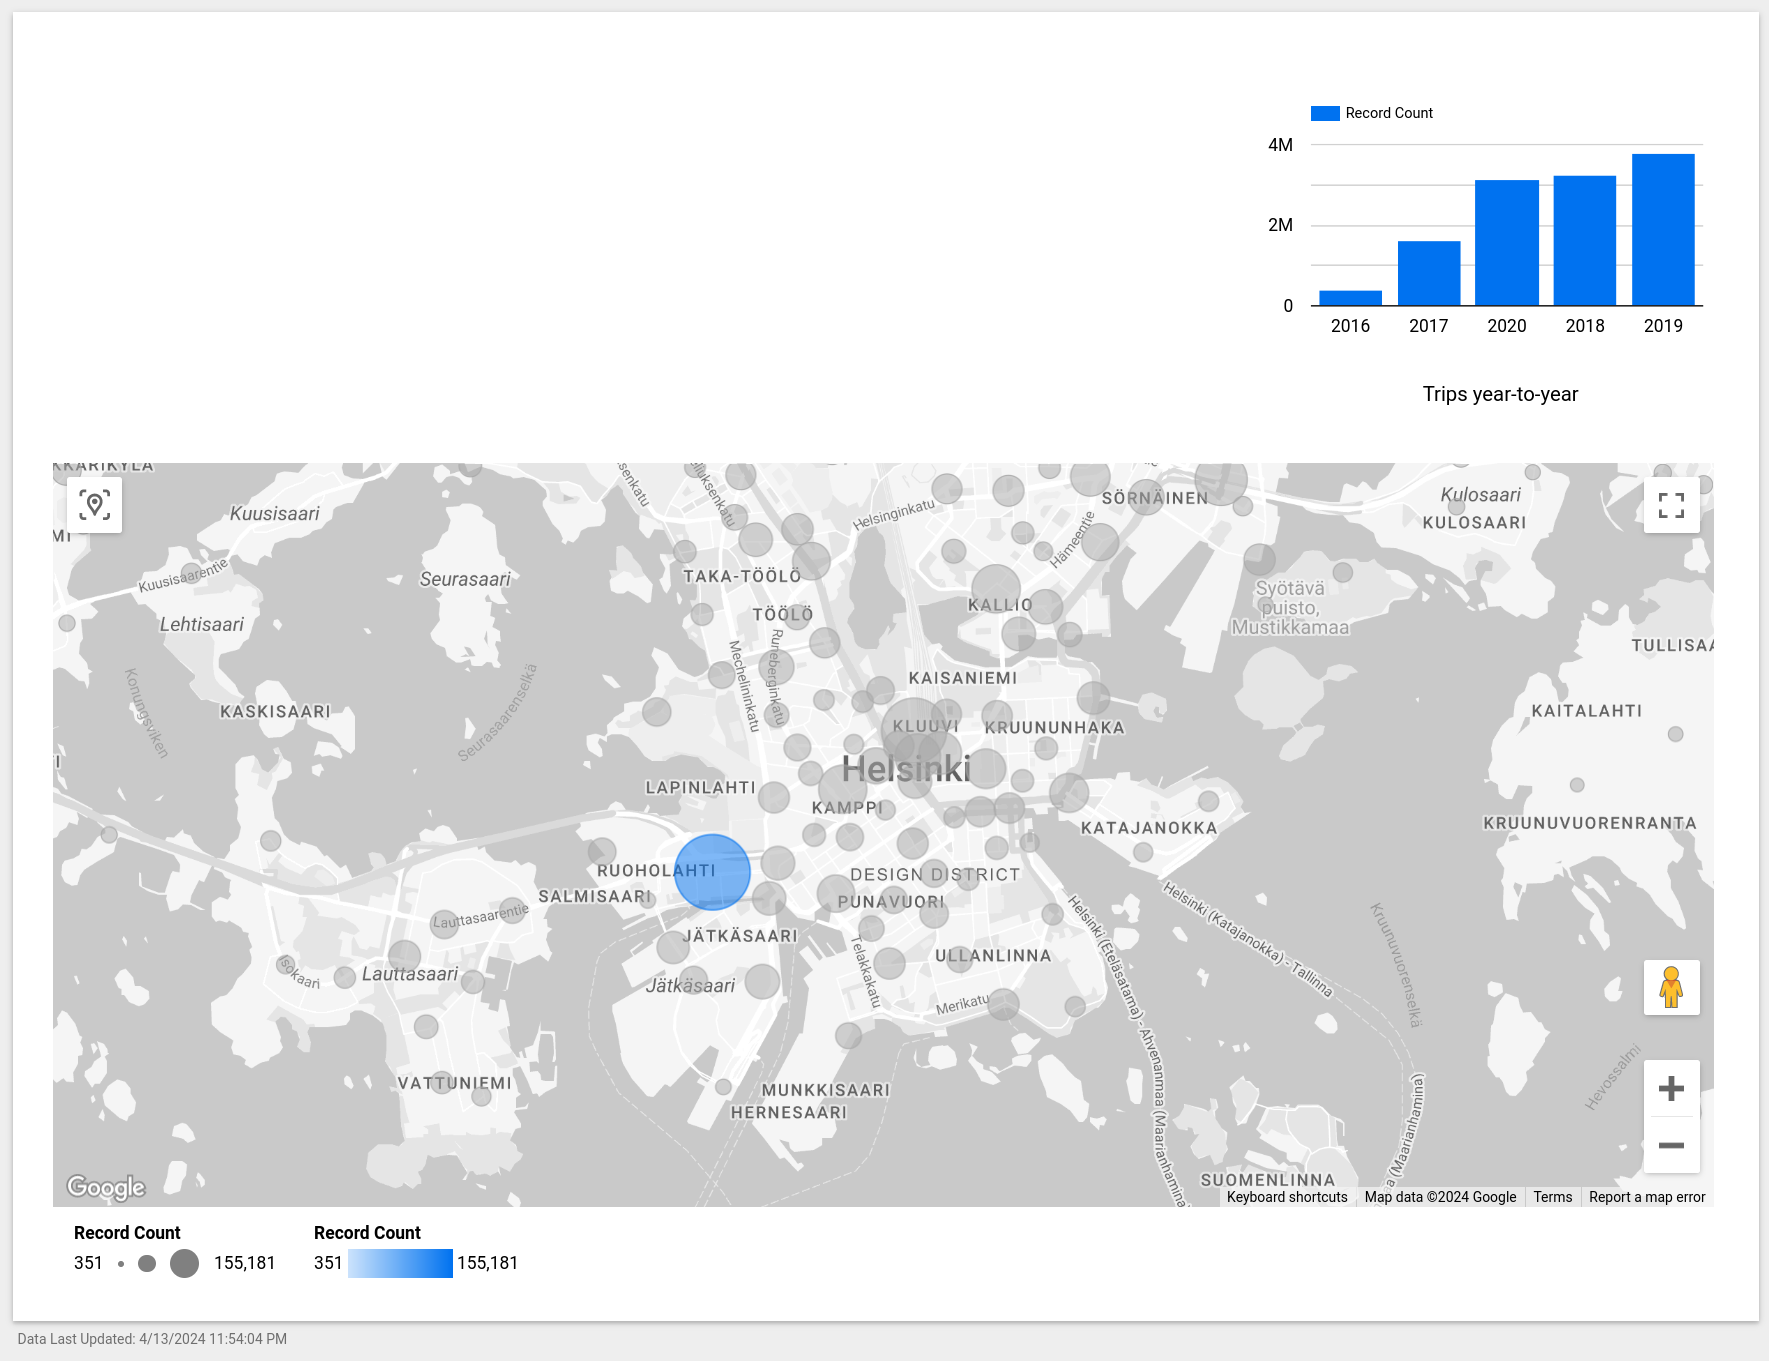
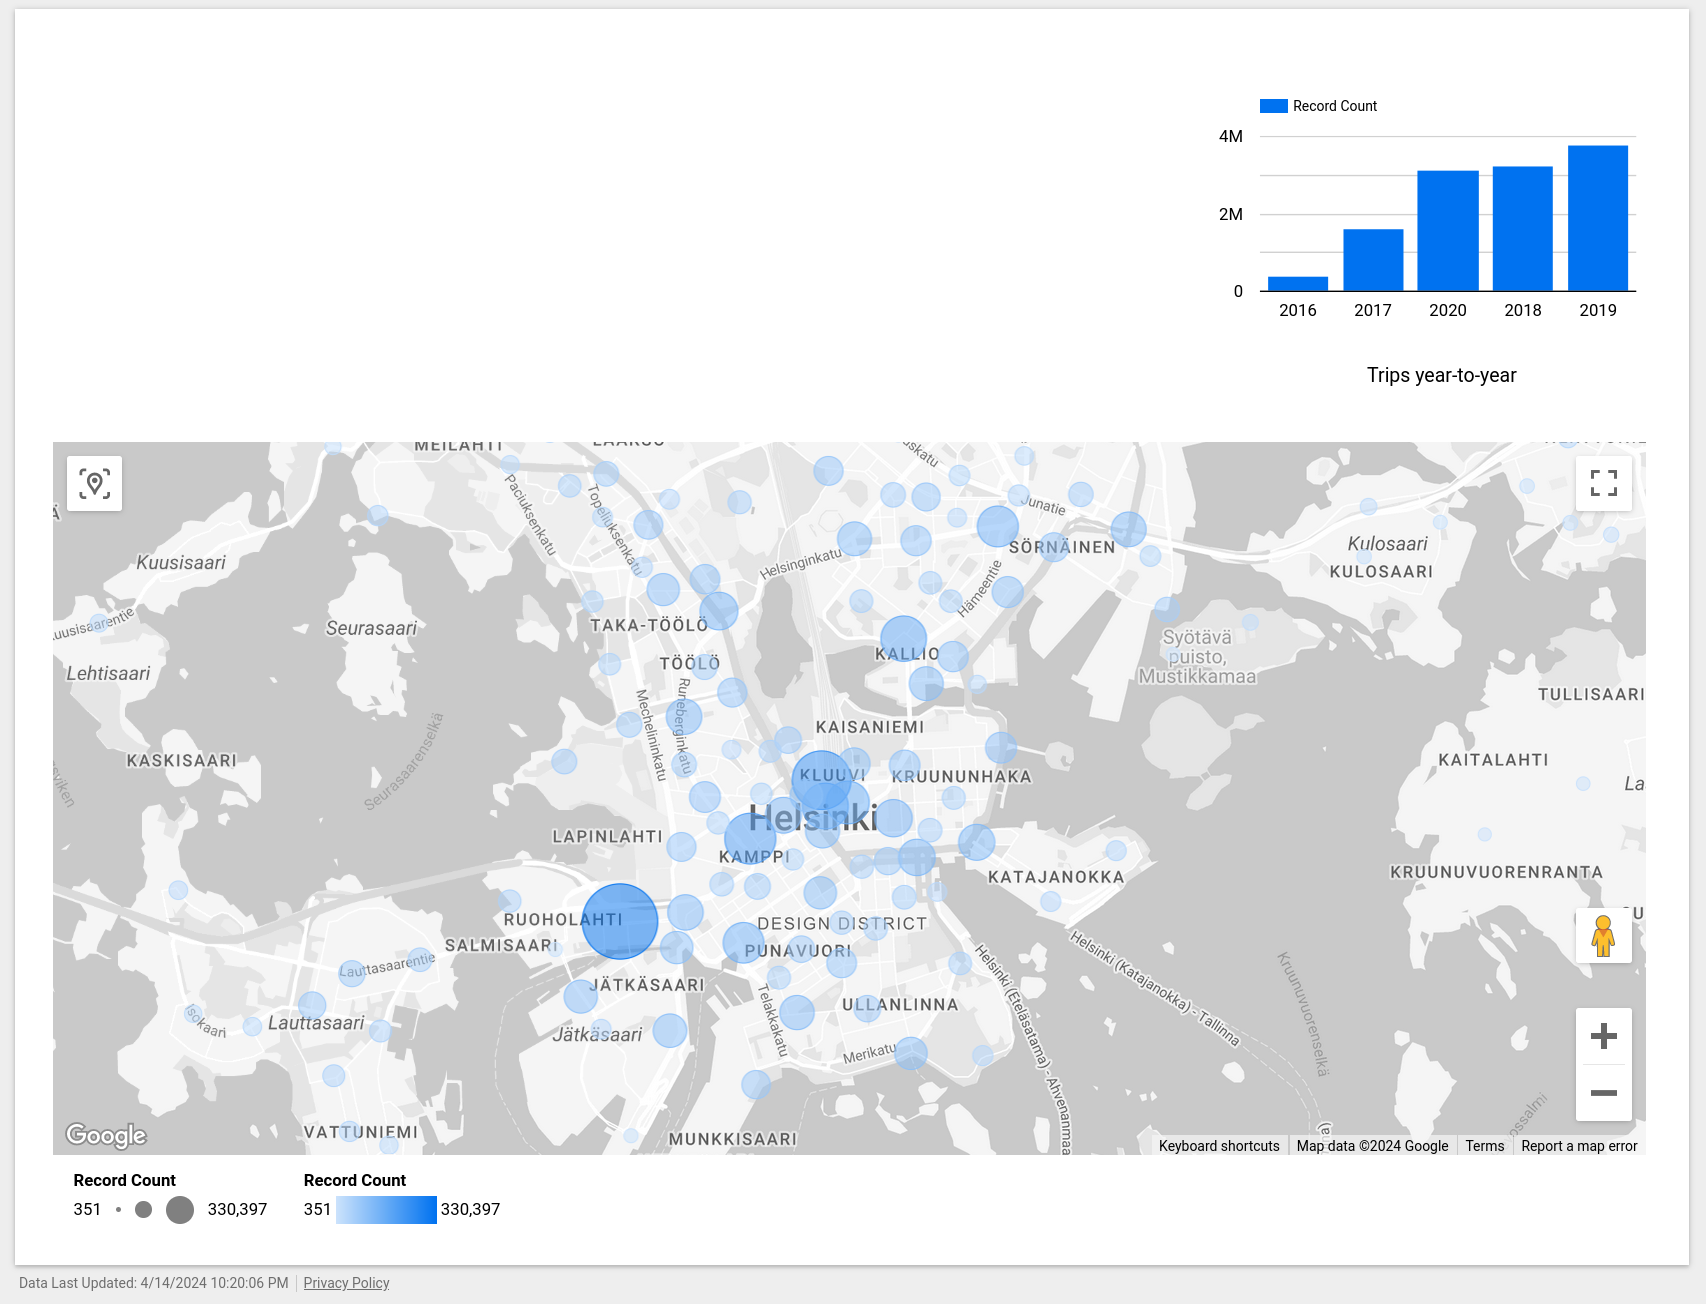
initial working pipeline
- better datacleaning
- export the notebook to python script
- add new roles to the service-account to be able to create bigquery tables

diff --git a/process_bikes-trips.py b/process_bikes-trips.py
@@ -1,0 +1,124 @@
+#!/usr/bin/env python
+# coding: utf-8
+
+# In[1]:
+
+
+from pyspark.sql import SparkSession
+import pandas as pd
+from pyspark.sql import types
+from pyspark.sql.functions import year
+from google.cloud import bigquery
+
+# BigQuery client setup
+client = bigquery.Client()
+current_project_id = client.project
+
+# Initialize a SparkSession
+spark = SparkSession.builder\
+                .config('spark.jars', 'gs://spark-lib/bigquery/spark-bigquery-with-dependencies_2.12-0.30.0.jar')\
+                .getOrCreate()
+
+# Read the CSV file into a DataFrame
+schema = types.StructType([
+    types.StructField("departure", types.TimestampType(), True),
+    types.StructField("return", types.TimestampType(), True),
+    types.StructField("departure_id", types.IntegerType(), True),
+    types.StructField("departure_name", types.StringType(), True),
+    types.StructField("return_id", types.IntegerType(), True),
+    types.StructField("return_name", types.StringType(), True),
+    types.StructField("distance (m)", types.DoubleType(), True),
+    types.StructField("duration (sec.)", types.DoubleType(), True),
+    types.StructField("avg_speed (km/h)", types.DoubleType(), True),
+    types.StructField("departure_latitude", types.DoubleType(), True),
+    types.StructField("departure_longitude", types.DoubleType(), True),
+    types.StructField("return_latitude", types.DoubleType(), True),
+    types.StructField("return_longitude", types.DoubleType(), True),
+    types.StructField("Air temperature (degC)", types.DoubleType(), True)
+    ])
+    
+raw = spark.read     .format("csv")     .option("compression", "gzip")     .option("header", True)     .option("inferSchema", True)    .schema(schema)    .load("gs://pfcllotsb7jsqqvbjrnw3s-datasets/bike-rides-data.tar.gz")
+
+
+# In[2]:
+
+
+# clean up column names, partition by year
+raw = raw.withColumnRenamed("distance (m)", "distance")        .withColumnRenamed("duration (sec.)", "duration_sec")        .withColumnRenamed("avg_speed (km/h)", "avg_speed_km_h")        .withColumnRenamed("Air temperature (degC)", "air_temp_celcius")        .withColumn("year", year(raw["departure"]))
+
+raw.printSchema()
+
+
+# In[8]:
+
+
+## get a table with all departure stations, removing duplicates
+from pyspark.sql.functions import row_number, lit, col
+from pyspark.sql.window import Window
+
+window = Window.partitionBy("departure_longitude", "departure_latitude").orderBy(lit('A'))
+
+departure_points = raw.filter(raw.departure_id.isNotNull())                    .select("departure_id", "departure_name", "departure_longitude", "departure_latitude")                    .distinct()                    .withColumn("row", row_number().over(window))                    .filter(col("row") == 1)                    .drop("row")
+
+print(f"departure points num: {departure_points.count()}")
+departure_points.show()
+
+# save departure stations data into the datalake
+table_path = f'gs://{current_project_id}-datalake/helinski-bike-trips/stations'
+departure_points.write.mode("overwrite").parquet(table_path)
+
+
+# In[9]:
+
+
+#some years are missing departure id, so, we need to fill those using departure coordinates if possible
+#Also some stations have multiple id's for the same name/coordinates, we should unify id's per coordinate
+raw.createOrReplaceTempView('raw')
+departure_points.createOrReplaceTempView('dept_points')
+
+# cc = raw.filter(raw.departure_longitude.isNotNull()).count()
+# print(f"raw rows with coordinates {cc}")
+
+cleaned = spark.sql("""
+                      SELECT raw.departure, raw.return, dept_points.departure_id as departure_id, raw.departure_name,raw.return_id, raw.return_name, 
+                      raw.distance, raw.duration_sec, raw.avg_speed_km_h, raw.departure_latitude, 
+                      raw.departure_longitude, raw.return_latitude, raw.return_longitude, 
+                      raw.air_temp_celcius, raw.year
+                      FROM raw
+                      LEFT JOIN dept_points 
+                      ON raw.departure_longitude = dept_points.departure_longitude AND raw.departure_latitude = dept_points.departure_latitude
+                      """)\
+                .filter(col("departure_id").isNotNull())
+
+cleaned.printSchema()
+print(f"raw data count: {raw.count()} / cleaned data count: {cleaned.count()}")
+
+
+# In[10]:
+
+
+# save clean data into datalake
+root_path = f'gs://{current_project_id}-datalake/helinski-bike-trips'
+cleaned.write.partitionBy("year").mode("overwrite").parquet(root_path)
+
+
+# In[12]:
+
+
+#############################################################################################
+# Write the data to a bigQuery table, partitioned by year, clustered by departure_id
+#############################################################################################
+# Specify your dataset and table
+dataset_id = 'zoomcamp_db'
+table_id = 'helinski_bike_trips'
+table_full_id = f"{client.project}.{dataset_id}.{table_id}"
+
+# Write the DataFrame to BigQuery, schema should be inferred automatically from pyspark
+cleaned.write.format("bigquery").option('table', table_full_id)     .option("writeMethod", "direct")     .option("partitionField", "departure")    .option("partitionType", "YEAR")    .option("clusteredFields", "departure_id")    .mode('overwrite')     .save()
+
+
+# In[ ]:
+
+
+
+

diff --git a/README.md b/README.md
@@ -1,4 +1,4 @@
-## Problem
+## Problem (Imagined ofcourse)
 As a part of Helinski city effort to encourage the usage of sustainable transportation methods, and to reduce the dependency on cars, the city is trying to promote the usage of bike share solutions for last mile trips.
 To monitor the adoption and the sucess of such solutions in Helinsky, the bearu of transportation needs a dashboard that summarizes the trends of using bike share solutions, based on trips data for years 2016-2020, before covid lockdown.
 
@@ -11,15 +11,15 @@ In order to have a better understanding of the solution adoption, the following 
 
 ![Dashboard](./imgs/report-screen-shot.png)
 
-- The pipe line takes the raw data from as CSV in a tar.gz file
-- Then using spark, it reads the data and cleans from invalid rows.
+- The pipe line takes the raw data from CSV in a tar.gz file
+- Then using spark, it reads the data and cleans it, adding missing departure_id based on station coordinates.
 - Then it saves the cleaned data as parquet files to GCS, partitioned by year.
 - Similarly, it will save the data into big-query table
     - The table is partitioned by year to reduce per-year query costs
     - And the clustering is done on departure_id, to facilate the map dashboard, which count trips by departure station.
 - Data looker is used to create the dashboard as shown in the image
 - You can view the dashboard from [here](https://lookerstudio.google.com/s/qkT3YTDP1qg)
-    - unfortunately I couldn't find an easy way to automate the dashboard replication
+    - unfortunately I couldn't find an easy way to automate the dashboard creation
 
 ## Requirements
 - Google cloud account
@@ -28,16 +28,17 @@ In order to have a better understanding of the solution adoption, the following 
 
 ## Steps
 
-- The Helsinki City bikes data set from [kaggle](https://www.kaggle.com/datasets/geometrein/helsinki-city-bikes?resource=download) is available on this [url](https://storage.googleapis.com/pfcllotsb7jsqqvbjrnw3s-datasets/bike-rides-data.tar.gz) 
+- The Helsinki City bikes data set from [kaggle](https://www.kaggle.com/datasets/geometrein/helsinki-city-bikes?resource=download) is available on this [url](https://storage.googleapis.com/pfcllotsb7jsqqvbjrnw3s-datasets/bike-rides-data.tar.gz). The pipeline will load it automatically.
 
 
-- in Google-Cloud-Services console, create a new project.
+- In Google-Cloud-Services console, create a new project.
 
 
-- init your shell, gcloud tool and terraform
+- Init your shell, gcloud tool and terraform
 ```shell
 # Set the project name in shell
 export GCS_PROJECT=<your-gcp-project-id>;
+export GCS_REGION=<your-gcp-project-region>;
 
 #login to gcs using gcloud tool
 gcloud auth login;
@@ -47,6 +48,7 @@ gcloud config set project $GCS_PROJECT;
 
 #set the project for terraform in the current shell
 export TF_VAR_project=$GCS_PROJECT;
+export TF_VAR_location=$GCS_REGION;
 ```
 
 - init terraform state file
@@ -56,17 +58,21 @@ terraform init
 
 - Check changes to new infra plan. Notice that terraform commands must run in the same shell you used to login to GCS, in order to have credentials to access the cloud.
 ```shell
-terraform plan"
+terraform plan
 ```
 
 - Create new infra
 ```shell
-terraform apply"
+terraform apply
 ```
 
 - run the notebook using dataproc
 ```shell
-gcloud storage cp <data-set-zip-file-path> gs://zoomcamp_project_pfcllotsb7jsqqvbjrnw3s/zoomcamp-dataset
+# copy the pipeline script to GCS
+export SPARK_JOB=gs://$GCS_PROJECT-datalake/process_bikes-trips.py;
+gsutil cp ./process_bikes-trips.py $SPARK_JOB;
+
+gcloud dataproc jobs submit pyspark $SPARK_JOB --cluster=$GCS_PROJECT-dataproc --region=$GCS_REGION --jars=gs://hadoop-lib/bigquery/bigquery-connector-hadoop2-latest.jar,gs://spark-lib/bigquery/spark-bigquery-with-dependencies_2.12-0.30.0.jar; 
 ```
 
 - When done, take down the infrastructure.
@@ -75,3 +81,7 @@ terraform destroy
 ```
 
 
+# Resources
+
+- BigQuery python client [documentation](https://cloud.google.com/python/docs/reference/bigquery/latest/google.cloud.bigquery.client.Client#google_cloud_bigquery_client_Client_load_table_from_dataframe)
+- [Creating dataproc cluster using terraform](https://medium.com/google-cloud/deploying-google-cloud-dataproc-with-terraform-what-why-and-how-74e26366d092)
